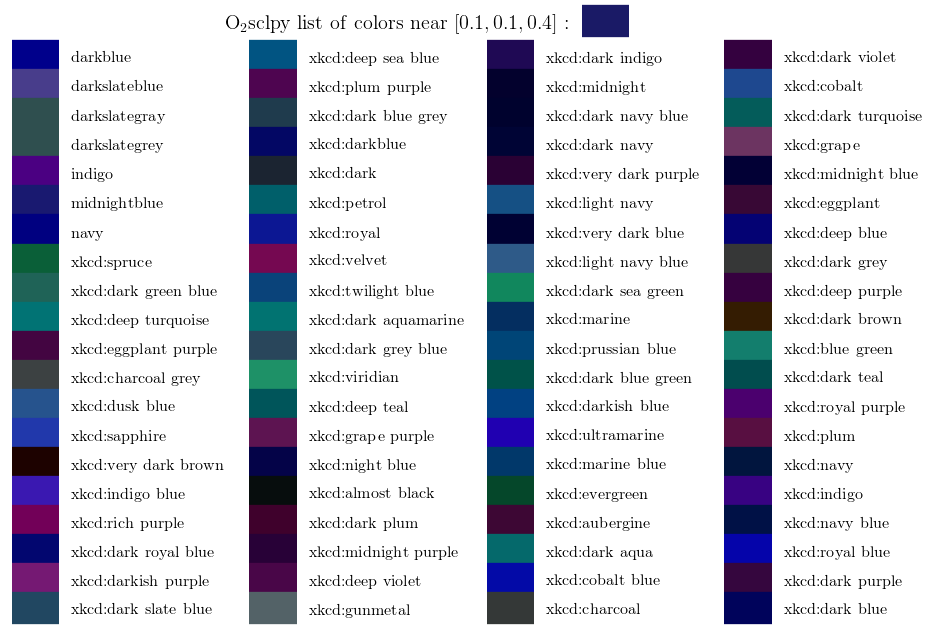
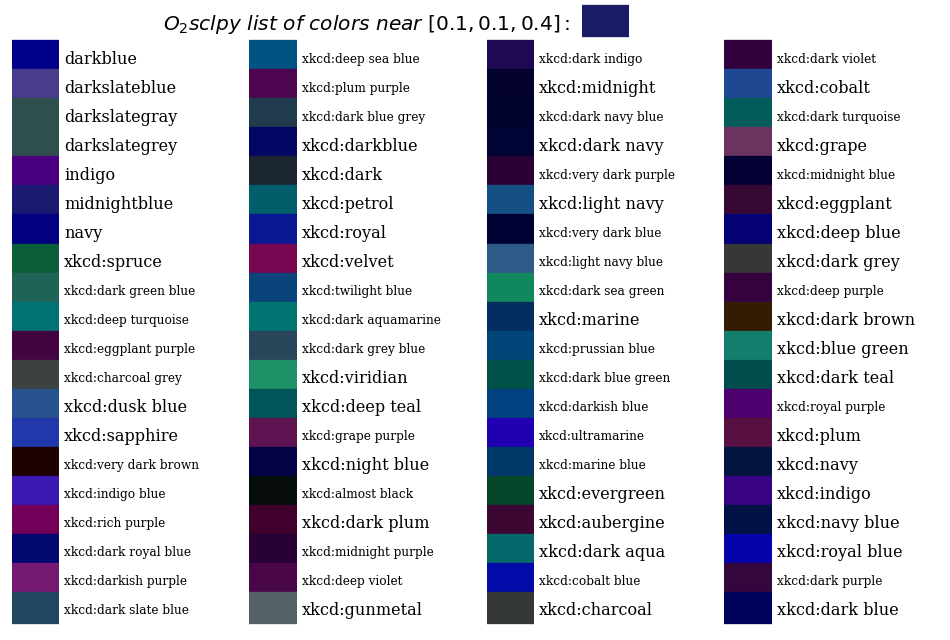
Fixing cmap deprecations and rearrnage_and_copy regressions.

diff --git a/o2sclpy/plot_base.py b/o2sclpy/plot_base.py
@@ -27,7 +27,6 @@ import os
 #import platform
 
 # To create new color maps
-from matplotlib.colors import LinearSegmentedColormap
 
 # For rectangles and ellipses
 import matplotlib.patches as patches
@@ -419,14 +418,18 @@ class plot_base:
     
             cdict={'red': col_r, 'green': col_g, 'blue': col_b}
             
-        import matplotlib.pyplot as plot
+        import matplotlib
+        from matplotlib.colors import LinearSegmentedColormap
+        #import matplotlib.pyplot as plot
 
         cmap_obj=LinearSegmentedColormap(cmap_name,cdict)
-        plot.register_cmap(cmap=cmap_obj)
+        #plot.register_cmap(cmap=cmap_obj)
+        matplotlib.colormaps.register(cmap=cmap_obj)
                 
         # Colormap reversed
         cmapr_obj=cmap_obj.reversed()
-        plot.register_cmap(cmap=cmapr_obj)
+        #plot.register_cmap(cmap=cmapr_obj)
+        matplotlib.colormaps.register(cmap=cmapr_obj)
         
         return
         
@@ -436,6 +439,8 @@ class plot_base:
         """
 
         import matplotlib.pyplot as plot
+        import matplotlib
+        from matplotlib.colors import LinearSegmentedColormap
 
         if 'jet2' not in plot.colormaps():
             # LinearSegmentedColormap
@@ -456,11 +461,13 @@ class plot_base:
                    'green': ((0.0,unused,1.0),(1.0,0.0,unused)),
                    'blue': ((0.0,unused,1.0),(1.0,0.0,unused))}
             reds2=LinearSegmentedColormap('reds2',cdict)
-            plot.register_cmap(cmap=reds2)
+            matplotlib.colormaps.register(cmap=reds2)
+            #plot.register_cmap(cmap=reds2)
             
             # Colormap reds2, reversed
             reds2_r=reds2.reversed()
-            plot.register_cmap(cmap=reds2_r)
+            matplotlib.colormaps.register(cmap=reds2_r)
+            #plot.register_cmap(cmap=reds2_r)
             
             # A new version of the ``jet`` colormap which starts with
             # white instead of blue. In order, the index colors are white,
@@ -475,11 +482,13 @@ class plot_base:
                             (0.4,0.0,0.0),(0.6,0.0,0.0),
                             (0.8,0.0,0.0),(1.0,0.0,unused))}
             jet2=LinearSegmentedColormap('jet2',cdict)
-            plot.register_cmap(cmap=jet2)
+            matplotlib.colormaps.register(cmap=jet2)
+            #plot.register_cmap(cmap=jet2)
     
             # Colormap jet2, reversed
             jet2_r=jet2.reversed()
-            plot.register_cmap(cmap=jet2_r)
+            matplotlib.colormaps.register(cmap=jet2_r)
+            #plot.register_cmap(cmap=jet2_r)
     
             # A new version of the ``pastel`` colormap which starts with
             # white instead of blue. In order, the index colors are white,
@@ -494,33 +503,39 @@ class plot_base:
                             (0.4,0.3,0.3),(0.6,0.3,0.3),
                             (0.8,0.3,0.3),(1.0,0.3,unused))}
             pastel2=LinearSegmentedColormap('pastel2',cdict)
-            plot.register_cmap(cmap=pastel2)
+            matplotlib.colormaps.register(cmap=pastel2)
+            #plot.register_cmap(cmap=pastel2)
             
             # Colormap pastel2, reversed
             pastel2_r=pastel2.reversed()
-            plot.register_cmap(cmap=pastel2_r)
+            matplotlib.colormaps.register(cmap=pastel2_r)
+            #plot.register_cmap(cmap=pastel2_r)
     
             # A white to green colormap
             cdict={'red': ((0.0,unused,1.0),(1.0,0.0,unused)),
                    'green': ((0.0,unused,1.0),(1.0,1.0,unused)),
                    'blue': ((0.0,unused,1.0),(1.0,0.0,unused))}
             greens2=LinearSegmentedColormap('greens2',cdict)
-            plot.register_cmap(cmap=greens2)
+            matplotlib.colormaps.register(cmap=greens2)
+            #plot.register_cmap(cmap=greens2)
             
             # Colormap greens2, reversed
             greens2_r=greens2.reversed()
-            plot.register_cmap(cmap=greens2_r)
+            matplotlib.colormaps.register(cmap=greens2_r)
+            #plot.register_cmap(cmap=greens2_r)
             
             # A white to blue colormap
             cdict={'red': ((0.0,unused,1.0),(1.0,0.0,unused)),
                    'green': ((0.0,unused,1.0),(1.0,0.0,unused)),
                    'blue': ((0.0,unused,1.0),(1.0,1.0,unused))}
             blues2=LinearSegmentedColormap('blues2',cdict)
-            plot.register_cmap(cmap=blues2)
+            matplotlib.colormaps.register(cmap=blues2)
+            #plot.register_cmap(cmap=blues2)
             
             # Colormap blues2, reversed
             blues2_r=blues2.reversed()
-            plot.register_cmap(cmap=blues2_r)
+            matplotlib.colormaps.register(cmap=blues2_r)
+            #plot.register_cmap(cmap=blues2_r)
 
         # End of function plot_base::new_cmaps()
         return

diff --git a/o2sclpy/base.py b/o2sclpy/base.py
@@ -9028,10 +9028,12 @@ def rearrange_and_copy(link,t,spec,verbose=0,err_on_fail=True):
     """
     spec_=ctypes.c_char_p(force_bytes(spec))
     func=link.o2scl.o2scl_rearrange_and_copy_tensor_double__wrapper
-    func.restype=tensor
+    func.restype=ctypes.c_void_p
     func.argtypes=[ctypes.c_void_p,ctypes.c_char_p,ctypes.c_int,ctypes.c_bool]
     ret=func(t._ptr,spec_,verbose,err_on_fail)
-    return ret
+    ten=tensor(link,ret)
+    ten._owner=True
+    return ten
 
 def rearrange_and_copy_int(link,t,spec,verbose=0,err_on_fail=True):
     """
@@ -9045,10 +9047,12 @@ def rearrange_and_copy_int(link,t,spec,verbose=0,err_on_fail=True):
     """
     spec_=ctypes.c_char_p(force_bytes(spec))
     func=link.o2scl.o2scl_rearrange_and_copy_tensor_int_int__wrapper
-    func.restype=tensor_int
+    func.restype=ctypes.c_void_p
     func.argtypes=[ctypes.c_void_p,ctypes.c_char_p,ctypes.c_int,ctypes.c_bool]
     ret=func(t._ptr,spec_,verbose,err_on_fail)
-    return ret
+    ten=tensor(link,ret)
+    ten._owner=True
+    return ten
 
 def rearrange_and_copy_size_t(link,t,spec,verbose=0,err_on_fail=True):
     """
@@ -9062,10 +9066,12 @@ def rearrange_and_copy_size_t(link,t,spec,verbose=0,err_on_fail=True):
     """
     spec_=ctypes.c_char_p(force_bytes(spec))
     func=link.o2scl.o2scl_rearrange_and_copy_tensor_size_t_size_t__wrapper
-    func.restype=tensor_size_t
+    func.restype=ctypes.c_void_p
     func.argtypes=[ctypes.c_void_p,ctypes.c_char_p,ctypes.c_int,ctypes.c_bool]
     ret=func(t._ptr,spec_,verbose,err_on_fail)
-    return ret
+    ten=tensor(link,ret)
+    ten._owner=True
+    return ten
 
 def grid_rearrange_and_copy(link,t,spec,verbose=0,err_on_fail=True):
     """
@@ -9079,10 +9085,12 @@ def grid_rearrange_and_copy(link,t,spec,verbose=0,err_on_fail=True):
     """
     spec_=ctypes.c_char_p(force_bytes(spec))
     func=link.o2scl.o2scl_grid_rearrange_and_copy_tensor_grid_double__wrapper
-    func.restype=tensor_grid
+    func.restype=ctypes.c_void_p
     func.argtypes=[ctypes.c_void_p,ctypes.c_char_p,ctypes.c_int,ctypes.c_bool]
     ret=func(t._ptr,spec_,verbose,err_on_fail)
-    return ret
+    ten=tensor(link,ret)
+    ten._owner=True
+    return ten
 
 def fermi_function(link,E,mu,T,limit=40.0):
     """

diff --git a/o2sclpy/plot_info.py b/o2sclpy/plot_info.py
@@ -268,9 +268,15 @@ def colors_near(col='',fname=''):
 
         # If col was converted to (r,g,b), then convert back to a
         # string.
-        col_fixpound=str(col).replace('#','\\#')
-        title=(r'$ \mathrm{O}_2\mathrm{sc'+
-               'lpy~list~of~colors~near~'+col_fixpound+'}: $')
+
+        # AWS, 10/16/22: This replacement was necessary with
+        # usetex=True, but now usetex=False, so we remove it
+        #col_fixpound=str(col).replace('#','\\#')
+        
+        #title=(r'$ \mathrm{O}_2\mathrm{sc'+
+        #'lpy~list~of~colors~near~'+col+'}: $')
+        title=r'$ O_{2}sclpy~list~of~colors~near~'+str(col)+': $'
+               
         #print('title',title)
 
         if len(selected)>80:

diff --git a/o2sclpy/test/test_den_plot.py b/o2sclpy/test/test_den_plot.py
@@ -1,9 +1,16 @@
 import numpy
 import o2sclpy
 import matplotlib.pyplot as plot
+import sys
+
+show_flag=True
+if 'pytest' in sys.modules:
+    show_flag=False
 
 def test_all(tmp_path):
 
+    print('Running test_den_plot.py:test_all().')
+    
     link=o2sclpy.linker()
     link.link_o2scl()
 
@@ -87,9 +94,12 @@ def test_all(tmp_path):
                 pb.save('test_den_plot1.png')
             elif k==2:
                 pb.save('test_den_plot2.png')
-            
-        pb.show()
+
+        if show_flag:
+            pb.show()
         
+    print('Done in test_den_plot.py:test_all().')
+    
     return
     
 if __name__ == '__main__':

diff --git a/o2sclpy/test/test_tensor.py b/o2sclpy/test/test_tensor.py
@@ -21,7 +21,8 @@ def subtest_basic(link):
     tensor.set([1,2,0],4)
     assert tensor.get([1,2,0])==4,'get() 2'
     assert tensor.total_size()==24,'total_size()'
-    tensor2=tensor.rearrange_and_copy('index(0),index(1),fixed(2,2)')
+    tensor2=o2sclpy.rearrange_and_copy(link,tensor,
+                                       'index(0),index(1),fixed(2,2)')
     assert tensor2.total_size()==6,'total_size() after rearrange'
     """
     assert len(v)==5, 'get_column()'

diff --git a/o2sclpy/test/test_table.py b/o2sclpy/test/test_table.py
@@ -94,12 +94,17 @@ def subtest_hdf5(link,tmp_path):
 
 def test_all(tmp_path):
 
+    print('Running test_table.py:test_all().')
+    
     link=o2sclpy.linker()
     link.link_o2scl()
 
     subtest_basic(link)
     subtest_copying(link)
     subtest_hdf5(link,tmp_path)
+    
+    print('Done in test_table.py:test_all().')
+    
     return
     
 if __name__ == '__main__':

diff --git a/examples/test_examples.py b/examples/test_examples.py
@@ -97,9 +97,11 @@ def test_table_errorbar():
     return
 
 def test_textbox():
+    print('Running examples/test_examples.py:test_textbox().')
     ret=os.system('cd examples; ./textbox.scr')
     assert ret==0
     compare_images('textbox')
+    print('Done in examples/test_examples.py:test_textbox().')
     return
 
 def test_table_scatter():

diff --git a/o2sclpy/utils.py b/o2sclpy/utils.py
@@ -406,6 +406,8 @@ def string_to_dict(s):
                 arr2[1]=float(arr2[1])
             if arr2[0]=='capthick':
                 arr2[1]=float(arr2[1])
+            if arr2[0]=='rotation':
+                arr2[1]=float(arr2[1])
 
             # Convert strings to bool values
             if arr2[0]=='sharex':
